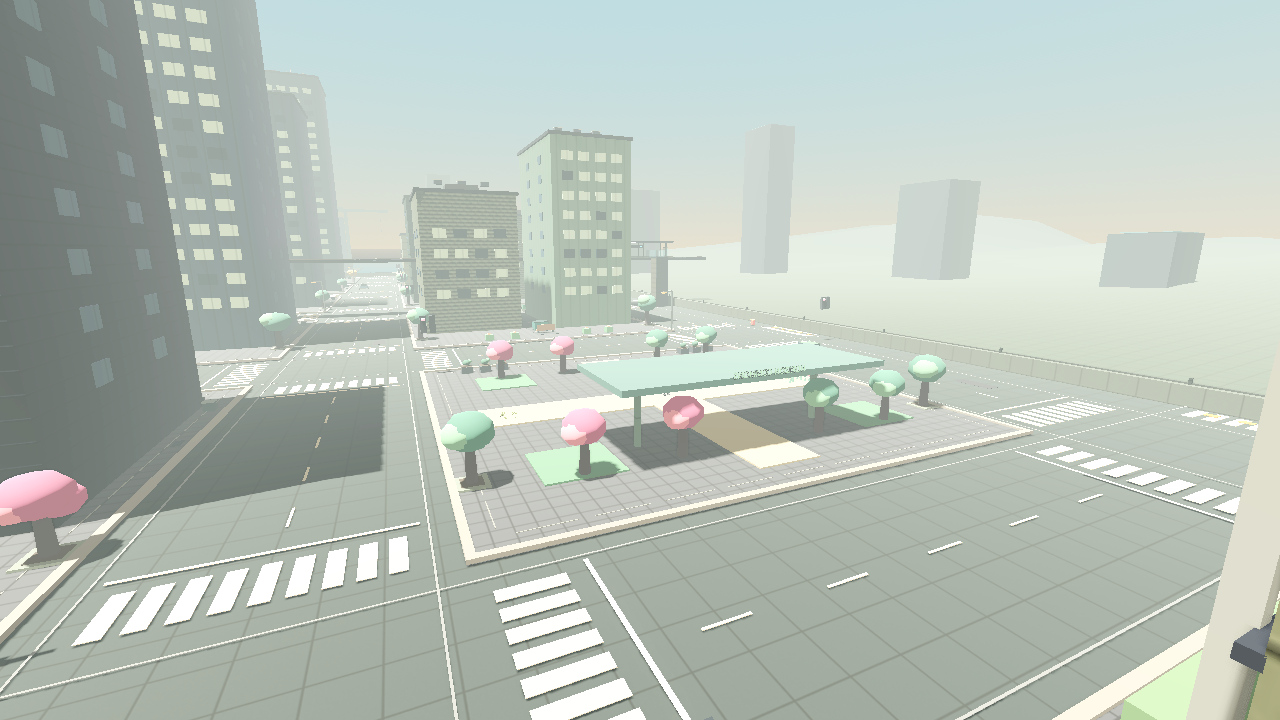
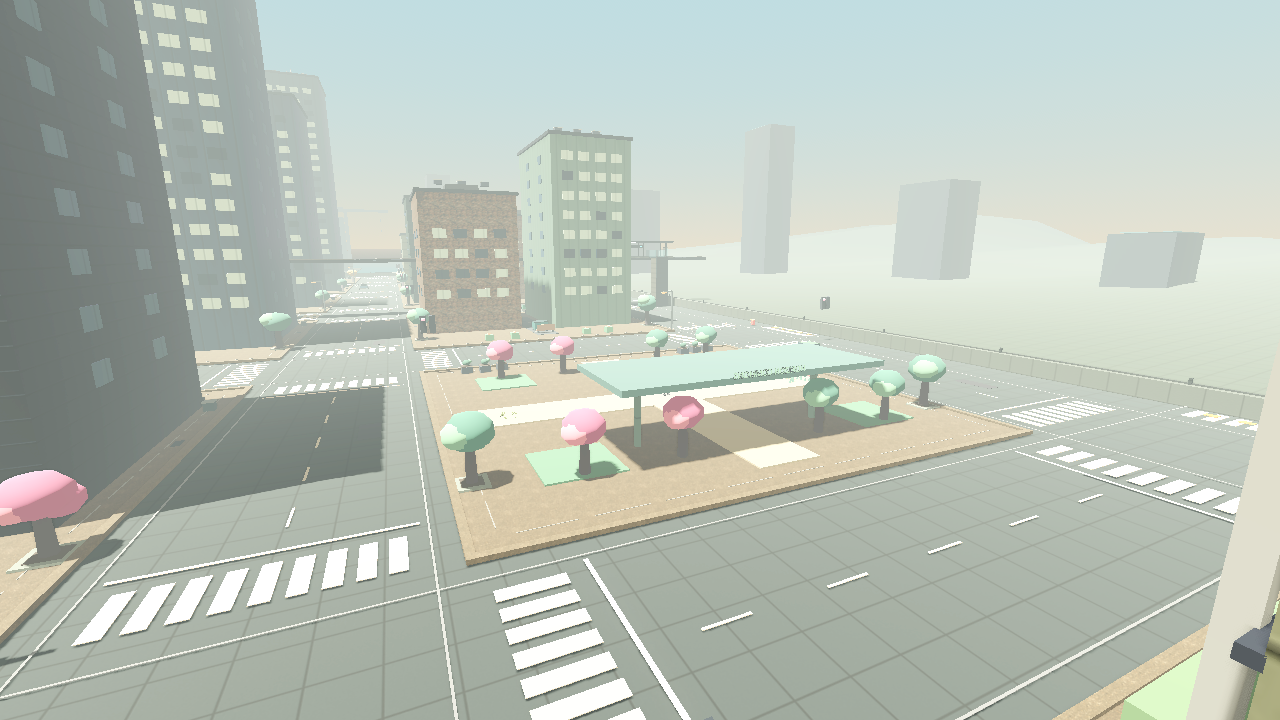
City art: photographic masonry for ordinary brick buildings (#111)
* Replace ordinary masonry shell textures with existing CC0 brick scan

* Add approachable public art, bug and gameplay feedback templates

* docs(screenshots): recapture seven real Godot 4 gameplay frames

* Record successful integrated capture and trigger final gallery verification

---------

diff --git a/README.md b/README.md
@@ -33,7 +33,7 @@ Your city layout and progress persist when you save and return.
 | **Title screen** | **City map** |
 | ![Game title menu](docs/screenshots/06-title-menu.png) | ![Morrow Bay city map](docs/screenshots/07-city-map-menu.png) |
 
-All seven images were captured from the running Godot 4.7.2 game on November 21, 2026. [Capture date/source, renderer and checksums](docs/screenshots/capture-manifest.json) · [Capture method](docs/screenshots/README.md). The gallery uses Linux software-rendered OpenGL; the Windows Forward+/Vulkan build may look different.
+All seven images were captured from the running Godot 4.7.2 game on November 21, 2026. These development-build screenshots may be newer than the downloadable tagged beta and predate the latest city-bus redesign. [Capture date/source, renderer and checksums](docs/screenshots/capture-manifest.json) · [Capture method](docs/screenshots/README.md). The gallery uses Linux software-rendered OpenGL; the Windows Forward+/Vulkan build may look different.
 
 ## Play the beta
 
@@ -74,6 +74,6 @@ Built with Godot **4.7.2** (Forward+/Vulkan). Clone the repository, open `projec
 
 [Developer guide](docs/DEVELOPMENT.md) · [World bible](docs/WORLD_BIBLE.md) · [Development roadmap](https://github.com/ProhibitedTV/NightGrid-Afterhours/issues/75) · [Builds](https://github.com/ProhibitedTV/NightGrid-Afterhours/actions/workflows/windows-build.yml)
 
-Feedback is welcome. F7 marks an issue in your local playtest log, F8 records frame times, and F10 captures a real game screenshot. See the [reporting checklist](docs/PLAYTEST_CHECKLIST.md) for details.
+**Help shape Morrow Bay.** Tried the beta or came here from Substack? [Share a bug, visual critique or feature suggestion](https://github.com/ProhibitedTV/NightGrid-Afterhours/issues/new). Tell us what build you tried, what worked, what felt unrealistic, and what you'd most like improved. F7 marks an issue in your local playtest log, F8 records frame times, and F10 captures a real game screenshot. See the [reporting checklist](docs/PLAYTEST_CHECKLIST.md) for details.
 
 The source has no general public license yet; individual third-party assets retain their documented licenses.

diff --git a/docs/screenshots/README.md b/docs/screenshots/README.md
@@ -15,3 +15,6 @@ The capture script stages actual locations in the playable world, opens the real
 | 07-city-map-menu.png | Live city map |
 
 [Capture workflow](../../.github/workflows/capture-screenshots.yml) · [Capture script](../../tools/capture_screenshots.gd). The workflow deletes previous PNGs before rendering, requires a successful capture marker, verifies the new files and commits the new manifest with the images on the designated branch. Native Windows screenshots (F10) and frame measurements (F8) remain a separate playtest goal.
+
+## November 21 integrated art refresh
+[Successful actual capture run 44955189798](https://github.com/ProhibitedTV/NightGrid-Afterhours/actions/runs/44955189798) rendered source `40487cc` with photo asphalt, concrete sidewalks, Vesper window assemblies and photographic brick. All seven PNGs were committed and their byte lengths match the manifest. The Vesper scene now shows photographic masonry and framed windows; the visible original bus is not the later coachwork pilot in #112. The latter needs its own render review. The screenshot commit and this record change documentation/feedback only, not rendered game source.

diff --git a/docs/PHOTO_MASONRY.md b/docs/PHOTO_MASONRY.md
@@ -1,0 +1,18 @@
+# Photographic masonry replacement
+
+Part of #19/#21. Ordinary buildings whose persistent lot profile specifies BRICK
+now use the existing [Poly Haven brick_wall_001 CC0 scan](https://polyhaven.com/a/brick_wall_001)
+rather than 128px procedural masonry. The source diffuse, GL normal and roughness
+maps are shared by cached materials, with continuous world mapping at a 2.5m
+tile scale and a subdued multiplier retaining each lot's district tint.
+Preserves exact shell geometry and collision, saved profile, floor/window layout,
+entrances, existing authored hero frontages and all non-brick materials. No extra
+binary assets, mesh instances, lights, or per-frame work.
+
+This is a material replacement, not new complete building architecture. Review
+brick scale, tint, corner alignment, glass/brick transitions and repetition in
+actual gallery and native Forward+ screenshots. Native frame timing remains
+unmeasured. The real-scene regression checks ordinary brick lot meshes and
+collider sizes against the existing manifest across two parcels.
+
+[Source license and hashes](../assets/pbr/polyhaven/SOURCE.json).

diff --git a/.github/ISSUE_TEMPLATE/visual-feedback.md b/.github/ISSUE_TEMPLATE/visual-feedback.md
@@ -1,0 +1,26 @@
+---
+name: Visual feedback
+about: Help improve the appearance of Morrow Bay
+title: "[Art] "
+labels: ""
+assignees: ""
+---
+
+Thanks for helping improve NightGrid: Afterhours. You can report feedback from screenshots alone; playing the beta is not required.
+
+**What did you see?**
+Which neighborhood, landmark, vehicle, character or material? Link a screenshot if available.
+
+**What feels unrealistic or could look better?**
+For example: proportions, materials, lighting, architecture, vegetation, animation or visual repetition.
+
+**What would you change?**
+An explanation or a link to a reference is welcome. Please don't upload assets you don't have permission to share.
+
+**What did you view?**
+- [ ] GitHub README gallery
+- [ ] Windows beta (version, if known):
+- [ ] Development build (commit, if known):
+- [ ] Other:
+
+**Optional:** If you played the Windows build, attach an F10 screenshot and report your rendering profile (F11) if known. Crop personal information before sharing.

diff --git a/.github/ISSUE_TEMPLATE/playtest-bug.md b/.github/ISSUE_TEMPLATE/playtest-bug.md
@@ -1,0 +1,27 @@
+---
+name: Playtest bug or performance report
+about: Report broken gameplay, crashes, collisions or frame pacing
+title: "[Bug] "
+labels: ""
+assignees: ""
+---
+
+**Build:** Windows beta version or development commit (if known).
+
+**Where:** District, nearest landmark, menu, vehicle or activity.
+
+**What happened?**
+
+**What should have happened?**
+
+**Steps to reproduce**
+1.
+2.
+3.
+
+**How often?**
+Once / sometimes / every time.
+
+**Optional system details:** GPU, CPU, RAM, operating system, resolution, graphics settings and rendering profile (F11).
+
+**Optional diagnostics:** F7 marks a local playtest log, F8 records frame times, F10 captures actual gameplay. See the [playtest guide](https://github.com/ProhibitedTV/NightGrid-Afterhours/blob/main/docs/PLAYTEST_CHECKLIST.md). Attach only relevant files and remove private paths, identifiers or other personal information first. Never attach passwords or tokens.

diff --git a/.github/ISSUE_TEMPLATE/feature-suggestion.md b/.github/ISSUE_TEMPLATE/feature-suggestion.md
@@ -1,0 +1,17 @@
+---
+name: Gameplay suggestion
+about: Suggest activities, simulation systems, world details or accessibility improvements
+title: "[Idea] "
+labels: ""
+assignees: ""
+---
+
+**What would you like to see in NightGrid?**
+
+**How would it improve the player experience?**
+
+**Example or reference (optional)**
+
+**Tradeoffs (optional):** Performance, accessibility, controls, scope or interactions with existing systems.
+
+Ideas are welcome even if you haven't played the beta.
